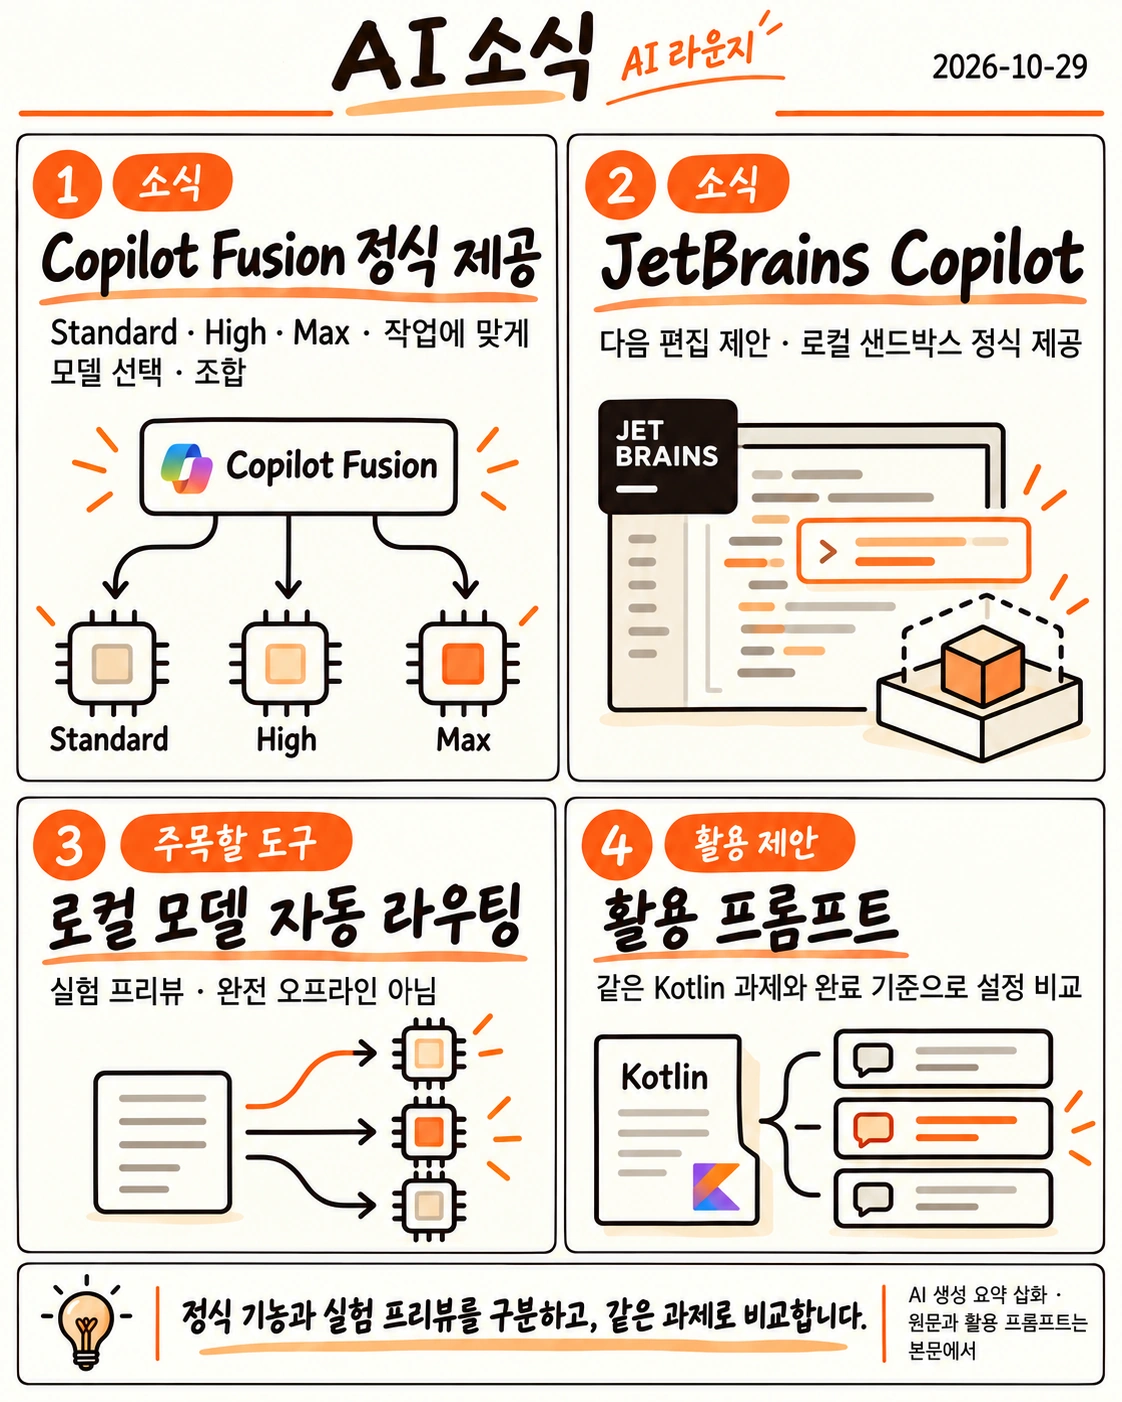
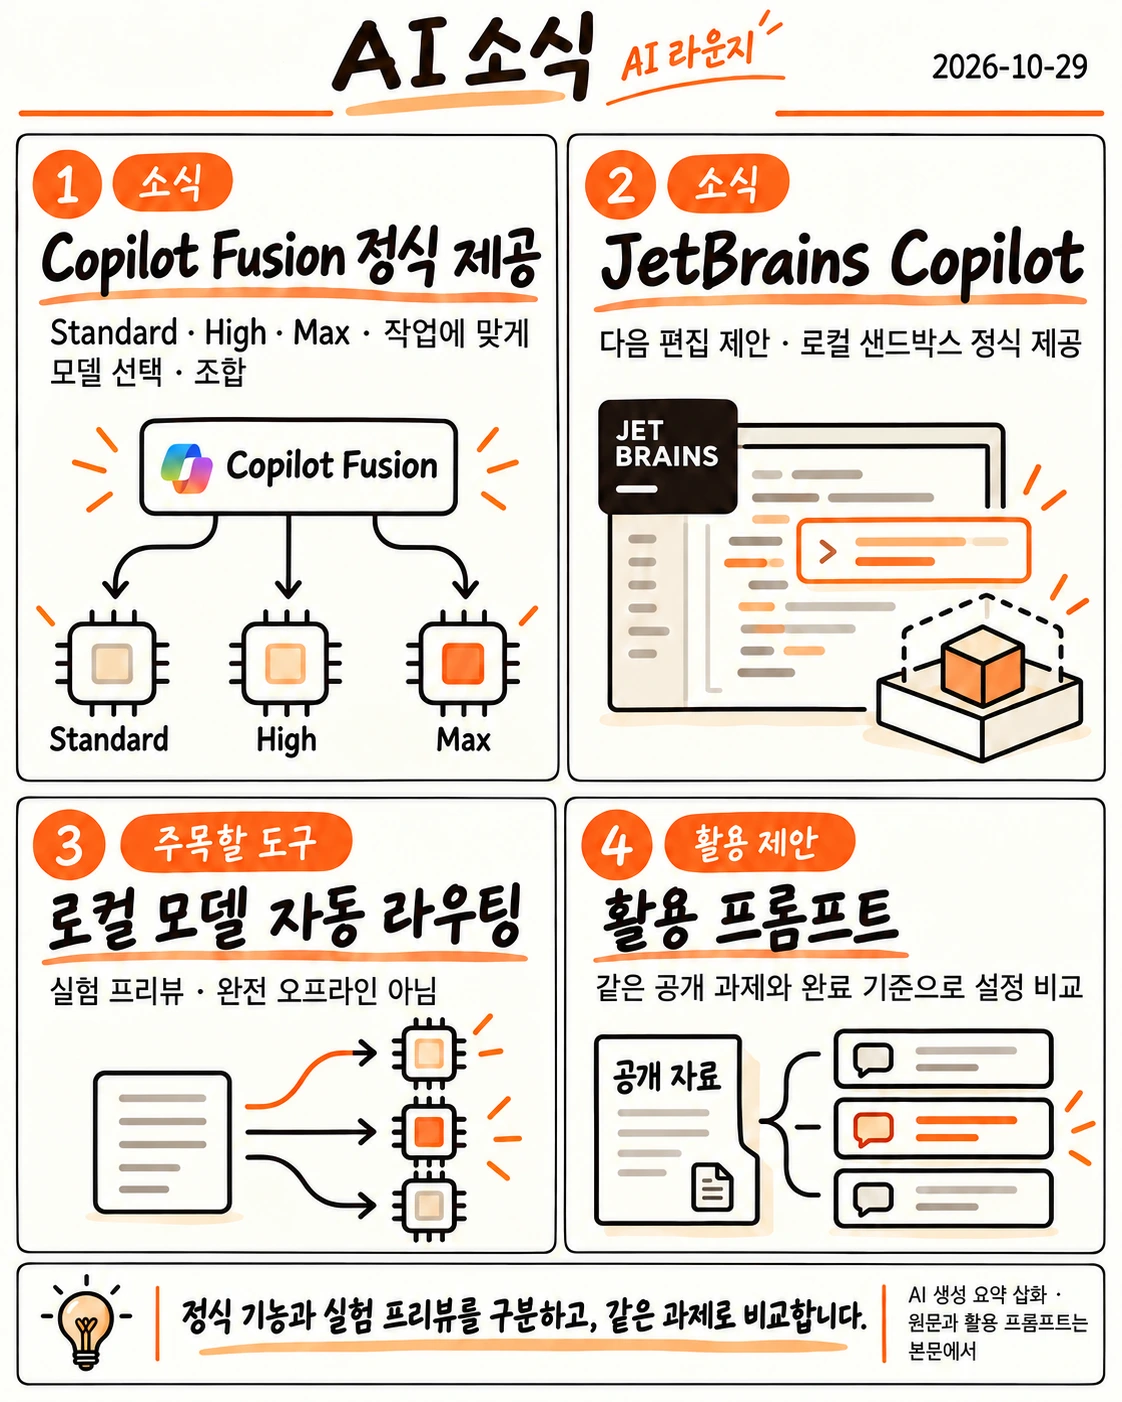
content: generalize daily recipes and broaden discovery sources
Remove unrequested language assumptions from 13 daily application notes and four illustrated prompts. Keep original news, dates, sources, and product-specific requirements. Document generic inputs and X/Threads discovery with official-source verification.

diff --git a/README.md b/README.md
@@ -53,10 +53,12 @@
 기존 아침 브리핑과 같은 실행에서 공개 AI 소식을 선별합니다. 모델·도구·저장소별 고정 할당량은 두지 않습니다. **주요 모델 소식, 코딩 도구의 큰 업데이트, 급상승 스킬·GitHub 저장소, 공식 예정 사항** 중 사용자에게 중요한 변화부터 고릅니다. 기존 화면의 `sections`, `radar`, `recipe` 계약은 유지하며, 근거가 부족한 날은 수를 채우지 않고 확인 범위를 설명합니다.
 
 - **선정 우선순위:** 주요 모델의 출시·능력·가격·사용 한도 변화, 코딩 도구·에이전트·스킬의 중요한 기능 변화, 증가 근거가 있는 GitHub 저장소, 공식 발표한 예정 사항을 비교합니다. 영향과 새로움이 큰 소식을 먼저 선정합니다. 운영 팁·일반 점검 방법은 실제 중요한 변화와 연결될 때만 다루며, 주요 소식을 대신하는 독립 항목으로 채우지 않습니다.
+- **발굴 범위:** 공식 사이트·GitHub·Trendar에 더해 X·Threads의 공식 계정, 개발자·연구자 글도 후보 발굴에 사용합니다. 채널별 필수 비율은 두지 않으며 모델·도구·가격·기능·주요 예정 사항을 폭넓게 비교합니다. 소셜 글에서 발견한 발표는 공식 발표·문서·원본 저장소까지 추적해 검증하고 게시일과 실제 제공일을 구분합니다. 재게시·같은 발표의 중복은 제거합니다. 조회수·좋아요만으로 중요도를 판단하거나 미확인 주장을 확정 소식으로 쓰지 않습니다. 소셜 원문에 접근하지 못했으면 직접 확인했다고 쓰지 않고 확인 범위와 한계를 남깁니다.
 - **원문과 시점:** 공식 발표·릴리스·문서를 우선합니다. 최근 24시간을 먼저 확인하고 부족하면 최근 7일로 넓힙니다. 발표일과 실제 제공일을 구분하고, 정식·프리뷰 여부와 적용 요금제·플랫폼·제약을 확인합니다. 확인한 사실, 변화의 의미, 활용 제안을 나눠 씁니다.
 - **예정 사항:** 공식 출처에 날짜와 제공 범위가 있으면 ‘공식 확정’, 공식 예고만 있고 일정이 정해지지 않았으면 ‘공식 예고·일정 미정’으로 표시합니다. 공식 근거가 없는 일정은 ‘미확인’으로 구분하고 확정 소식에 포함하지 않습니다. 예정일이 지났다는 이유만으로 출시됐다고 쓰지 않으며, 실제 제공 여부를 후속 확인합니다.
 - **GitHub·스킬:** 실제 README·릴리스·커밋·라이선스를 확인합니다. 용도, 선정 이유, 시작 방법, 제약과 관찰 날짜를 적습니다. ‘급상승’에는 관찰 기간과 해당 기간의 Stars 증가량 또는 기간이 명시된 공식 Trending 근거를 붙입니다. 누적 Stars만으로 급상승을 판단하지 않습니다. 증가 근거가 없으면 ‘추천 저장소’로 표시하고, 중요한 새 변화가 있을 때만 선정합니다.
 - **활용 프롬프트:** 선정한 소식 중 활용하기 가장 적합한 항목 하나에 짧고 복사 가능한 `recipe.prompt`를 연결합니다. 필요한 입력, 요청할 작업, 결과 확인 기준을 적고 기존 복사 버튼을 유지합니다. 단계와 제약은 `recipe.steps`, `recipe.limitation`에 남깁니다. 직접 실행하지 않았다면 활용 제안이라고 표시하며, 활용 프롬프트는 뉴스 건수에 포함하지 않습니다.
+- **범용 적용:** 활용 제안과 `recipe.prompt`는 문서·코드·도구 선택·업무 절차처럼 소식에 맞는 공개 자료를 입력으로 받고, 목표·판단 기준·근거·반례·확인할 증거를 명시합니다. 독자의 직무만으로 Kotlin 등 특정 언어·플랫폼 사용을 전제하지 않습니다. 사용자가 특정 언어를 요청했거나 원문 소식의 적용 범위가 특정 언어·플랫폼에 한정될 때만 특화합니다. 뉴스 사실·제품 지원 조건에 필요한 언어 이름은 보존합니다.
 - **중복과 과거 기록:** 같은 발표나 저장소를 매일 다시 추천하지 않습니다. 중요한 업데이트·새 활용·후속 검증이 있을 때만 달라진 점과 재소개 이유를 적습니다. 새 선정 기준은 이후 소식에 적용합니다. 사용자가 승인한 이번 과거 8개 날짜의 소급 점검은 각 게시일에 이미 공개된 자료만 사용해 사실·선정·표현을 교정하고 필요하면 정정 이유를 남깁니다. 이후에는 과거 원고를 임의로 다시 쓰지 않습니다.
 - **모바일 편집:** `title`, `sections[].heading`, `radar[].headline`에는 실제 모델·도구·저장소 이름과 새 변화를 짧게 씁니다. 인사이트 `summary`는 사실 1–2문장, `relevance`는 의미·활용 대상 한 문장입니다. 요약은 CSS로 잘라 숨기지 않고 편집으로 짧게 유지합니다. 전체 `body`, 해석 `takeaway`, 실행 `action`은 상세에 보존합니다. 기존 기록에 새 필드가 없으면 본문을 그대로 보여 줍니다. 목차는 실제 항목에서 자동 생성되며, 레시피 프롬프트는 복사 버튼과 수동 선택을 지원합니다.
 - **월간 후보:** 데일리 중 소개할 만한 내용만 `monthlyCandidates`에 남깁니다. 후보 추가는 월간 발행이 아니며 월간 화면에 자동 노출하지 않습니다.
